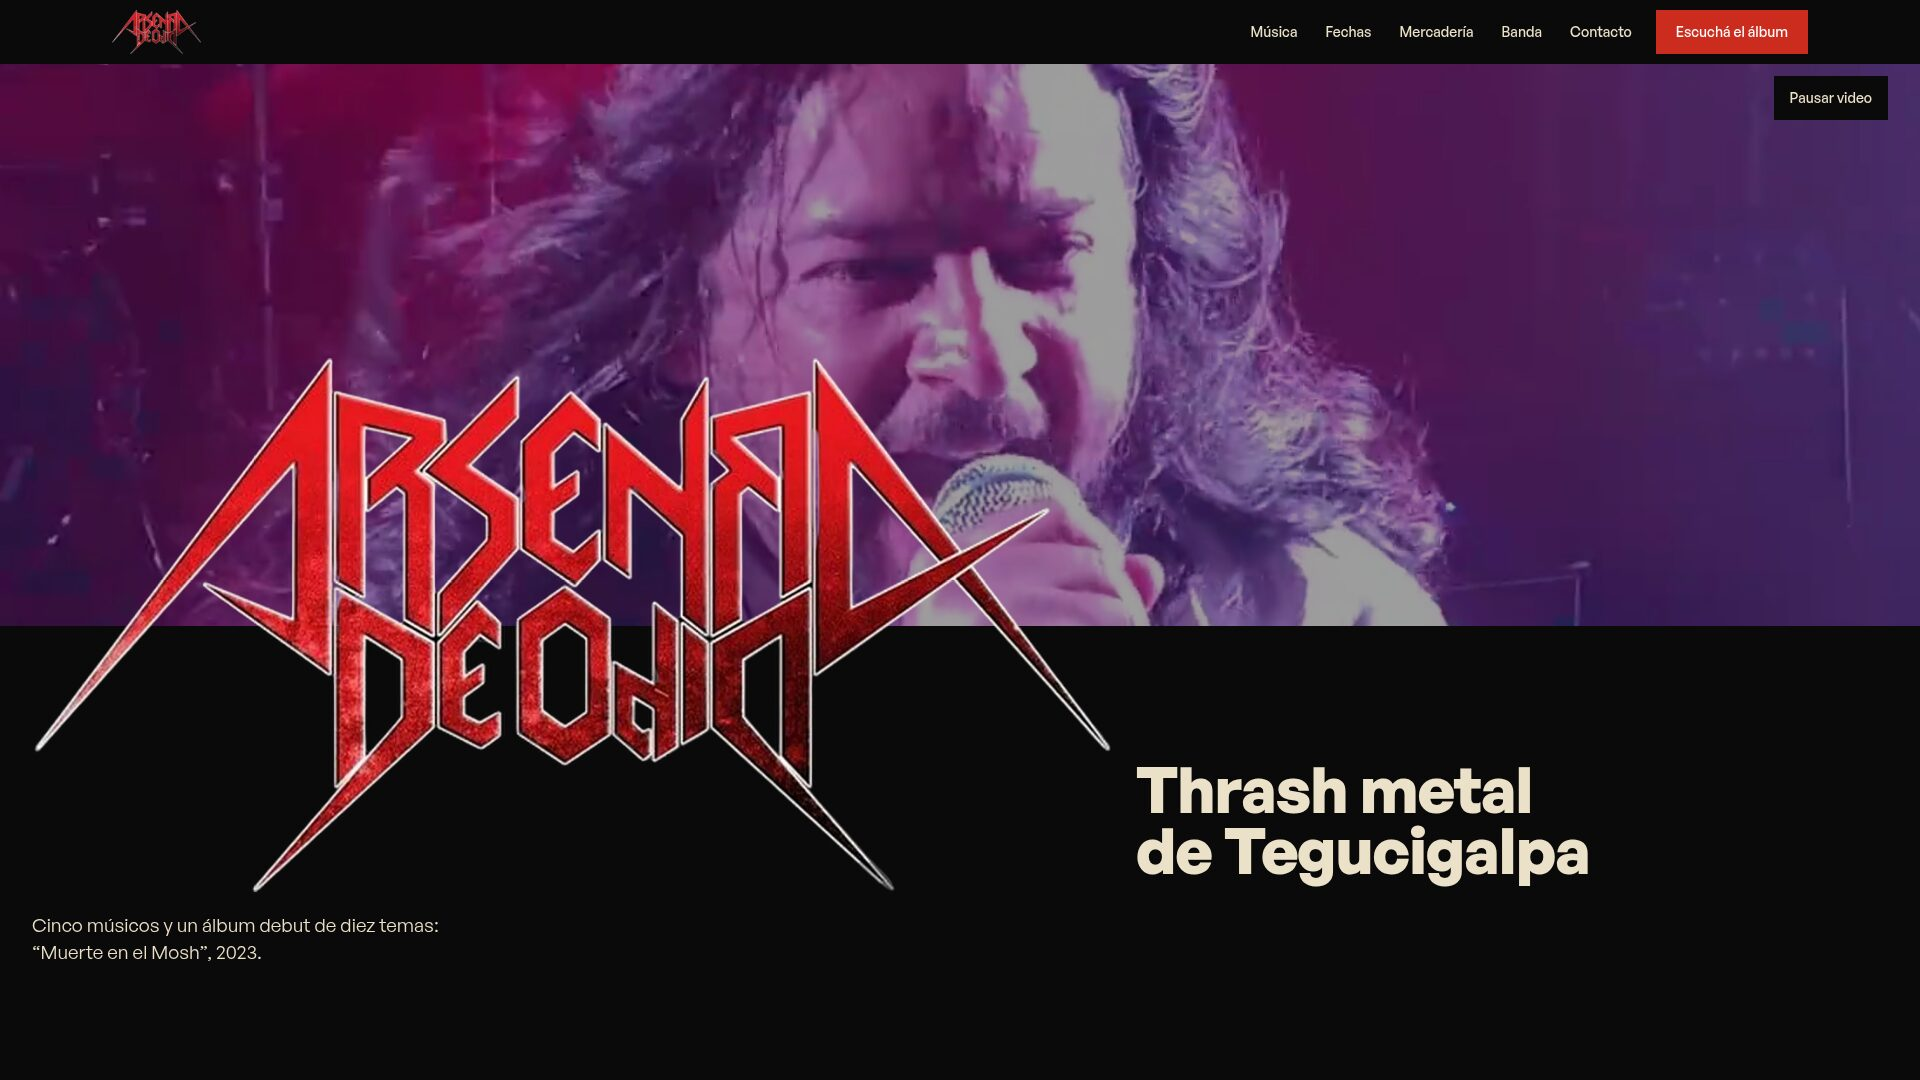
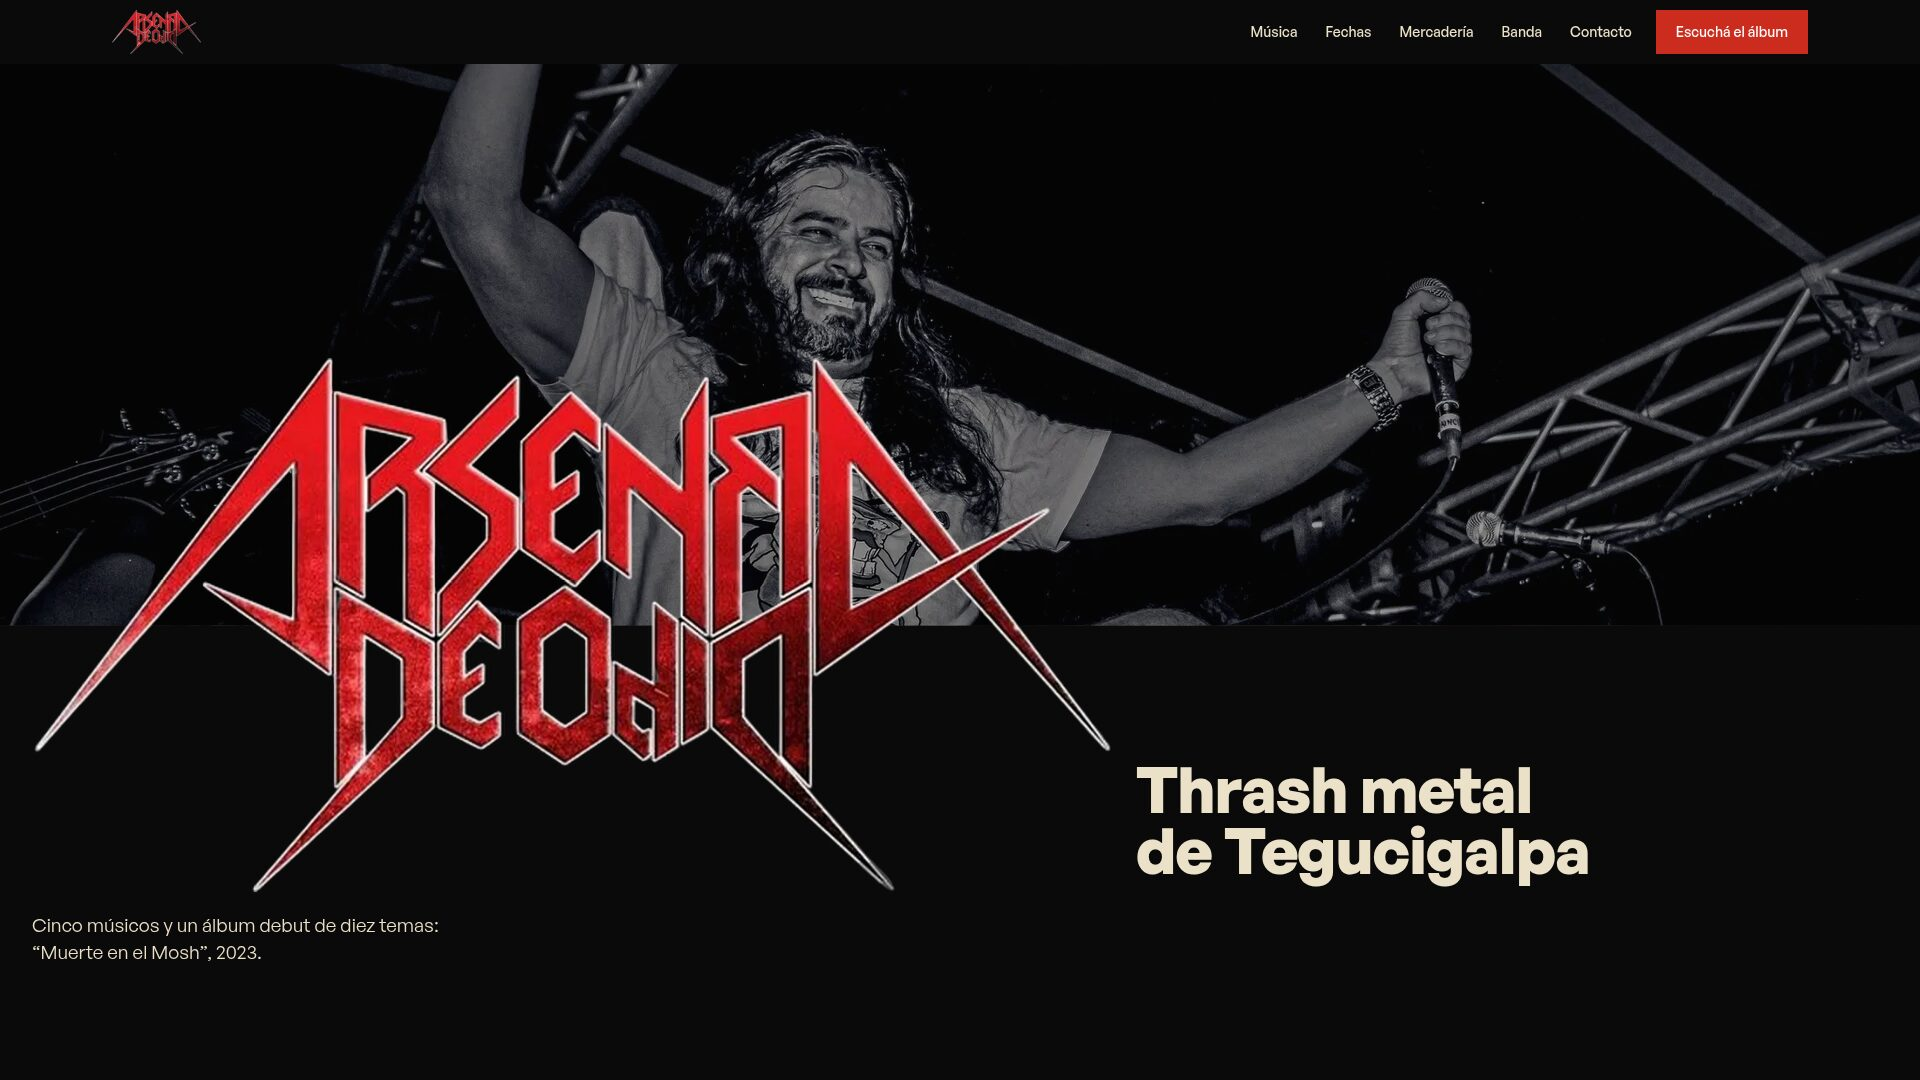
:lipstick: style(portfolio): show the singer photo frame of the arsenal hero
The owner prefers the hero frame where the black-and-white photo of
the singer covers the video. The card image and the case-study hero
are retaken from the live site at that scroll point, and the hero
alt text now describes the photo instead of the video and its button.

diff --git a/src/pages/arsenal-de-odio.md b/src/pages/arsenal-de-odio.md
@@ -8,7 +8,7 @@ Sitio web oficial de **Arsenal de Odio**, una banda de thrash metal de Tegucigal
 
 **En vivo:** [arsenaldeodio.danielbanariba.com](https://arsenaldeodio.danielbanariba.com)
 
-![Portada del sitio de Arsenal de Odio en escritorio: el logo de la banda a caballo sobre una franja de video en vivo, con la frase "Thrash metal de Tegucigalpa" y el botón "Pausar video"](/project/arsenal-de-odio/hero-escritorio.jpg)
+![Portada del sitio de Arsenal de Odio en escritorio: el logo de la banda sobre una foto en blanco y negro del cantante en vivo, con la frase "Thrash metal de Tegucigalpa"](/project/arsenal-de-odio/hero-escritorio.jpg)
 
 ---
 
